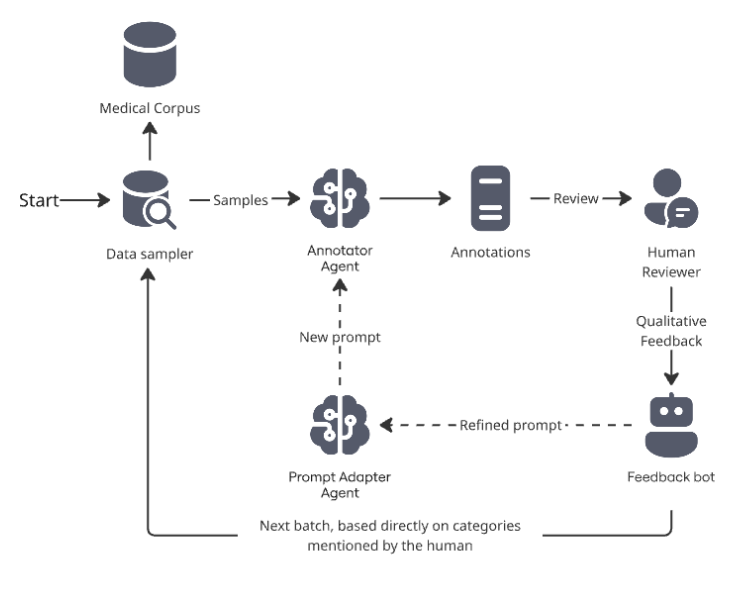
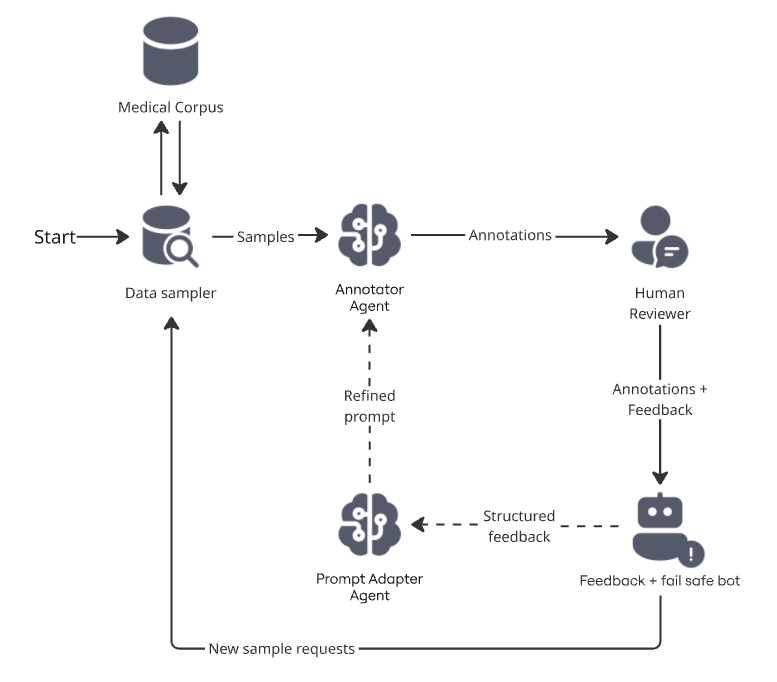
refine prompt agent to give output

diff --git a/src/modules/prompt_agent.py b/src/modules/prompt_agent.py
@@ -2,84 +2,248 @@ import json
 import os
 from datetime import datetime
 from typing import Dict, List
+import toml
+from google import genai
+from google.genai import types
 
-PROMPT_PATCHES = {
-    "unsupported_inference": [
-        "Do NOT infer diagnoses from prognosis discussions, family meetings, or treatment decisions.",
-        "Only extract diagnoses that are explicitly stated by a clinician."
-    ],
-    "symptom_diagnosis_confusion": [
-        "Do NOT label symptoms, complaints, or clinical findings as diagnoses unless explicitly diagnosed."
-    ],
-    "hallucination": [
-        "If a diagnosis is not explicitly mentioned in the text, do not guess or infer it."
-    ],
-    "missed_entity": [
-        "Ensure all explicitly stated diagnoses are extracted, even if mentioned briefly or once."
-    ]
-}
 
 class PromptAgent:
-    def __init__(self, prompt_dir: str = "logs/prompts"):
+    """
+    PromptAgent proposes *instruction-level patches* to an existing prompt.
+    It NEVER rewrites:
+      - system_prompt
+      - query
+      - allowed_diagnoses
+      - format_instruction
+    """
+
+    def __init__(
+        self,
+        prompt_dir: str = "logs/prompts",
+        secrets_path: str = "./secrets.toml",
+        model_name: str = "gemini-2.5-flash",
+        debug: bool = False,
+    ):
         self.prompt_dir = prompt_dir
+        self.model_name = model_name
+        self.secrets_path = secrets_path
+        self.debug = debug
+
         os.makedirs(self.prompt_dir, exist_ok=True)
+        self._load_client()
+
+    def _log(self, *args):
+        if self.debug:
+            print(*args)
+
+    def _load_client(self):
+        secrets = toml.load(self.secrets_path)
+        self.client = genai.Client(api_key=secrets["api"]["key"])
+
+    # ============================================================
+    # FEEDBACK AGGREGATION
+    # ============================================================
+
+    def _aggregate_feedback(self, parsed_feedback: List[Dict]) -> Dict[str, Dict]:
+        """
+        Aggregates repeated failure modes and example rationales.
+        """
+        agg: Dict[str, Dict] = {}
+
+        for fb in parsed_feedback:
+            if fb.get("outcome") != "incorrect":
+                continue
+
+            mode = fb.get("failure_mode")
+            if not mode:
+                continue
+
+            if mode not in agg:
+                agg[mode] = {
+                    "count": 0,
+                    "error_locus": fb.get("error_locus"),
+                    "examples": [],
+                }
+
+            agg[mode]["count"] += 1
+
+            rationale = fb.get("human_rationale")
+            if rationale:
+                agg[mode]["examples"].append(rationale)
+
+        return agg
+
+    # ============================================================
+    # LLM PROMPT CONSTRUCTION
+    # ============================================================
+
+    def _build_llm_prompt(
+        self,
+        base_prompt: Dict,
+        aggregated_failures: Dict[str, Dict],
+    ) -> str:
+        failures_text = []
+
+        for mode, info in aggregated_failures.items():
+            failures_text.append(
+                f"""
+Failure mode: {mode}
+Count: {info['count']}
+Error locus: {info.get('error_locus')}
+Reviewer examples:
+{chr(10).join('- ' + ex for ex in info['examples'][:3])}
+"""
+            )
+
+        return f"""
+You are assisting with IMPROVING an existing medical information extraction prompt.
+
+IMPORTANT CONSTRAINTS (DO NOT VIOLATE):
+- You MUST NOT rewrite or rephrase the task.
+- You MUST NOT change the system prompt.
+- You MUST NOT change the query.
+- You MUST NOT change the allowed_diagnoses list.
+- You MUST NOT change the output JSON format.
+- You MUST NOT introduce new task scope.
+
+You are ONLY allowed to:
+- Propose ADDITIONAL instructions
+- Propose SMALL refinements to EXISTING instructions
+
+The goal is to reduce the observed failure modes WITHOUT harming recall
+of explicitly stated diagnoses.
+
+------------------------------------
+CURRENT SYSTEM PROMPT (READ ONLY):
+{base_prompt.get("system_prompt", "")}
+
+CURRENT QUERY (READ ONLY):
+{base_prompt.get("query", "")}
+
+CURRENT INSTRUCTIONS (BASELINE – TREAT AS VALIDATED):
+{chr(10).join('- ' + i for i in base_prompt.get("instructions", []))}
+------------------------------------
+
+OBSERVED FAILURE MODES FROM HUMAN REVIEW:
+{chr(10).join(failures_text)}
+
+TASK:
+Propose instruction-level patches only.
+
+Return JSON in EXACTLY this format:
+
+{{
+  "instructions_to_add": [
+    "New instruction text"
+  ],
+  "instructions_to_refine": [
+    {{
+      "target_instruction": "Exact text of an existing instruction",
+      "refined_version": "Slightly refined version"
+    }}
+  ],
+  "rationale": "Why these changes reduce the failures without expanding scope"
+}}
+
+If no changes are needed, return empty lists.
+"""
+
+    # ============================================================
+    # LLM CALL
+    # ============================================================
+
+    def _call_llm(self, prompt: str) -> Dict:
+        config = types.GenerateContentConfig(
+            temperature=0.2,
+            max_output_tokens=5000,  # slightly higher
+        )
+
+        response = self.client.models.generate_content(
+            model=self.model_name,
+            contents=prompt,
+            config=config,
+        )
+
+        text = response.text.strip()
+
+        # Remove markdown fences if present
+        if text.startswith("```"):
+            text = text.split("```", 2)[1]
+
+        # Try parsing progressively
+        try:
+            return json.loads(text)
+        except json.JSONDecodeError:
+            pass
+
+        # Fallback: extract largest JSON block
+        import re
+        match = re.search(r"\{[\s\S]*\}", text)
+        if match:
+            try:
+                return json.loads(match.group(0))
+            except json.JSONDecodeError:
+                pass
+
+        return {
+            "error": "Failed to parse LLM JSON",
+            "raw_output": response.text,
+        }
+
+    # ============================================================
+    # PUBLIC API
+    # ============================================================
 
     def propose_update(
         self,
         base_prompt: Dict,
         parsed_feedback: List[Dict],
+        min_failures: int = 2,
     ) -> Dict:
         """
-        Proposes a prompt PATCH based on aggregated human feedback.
-        Does NOT activate automatically — requires human approval.
+        Generates an instruction-level prompt patch.
+        Requires human approval before application.
         """
 
-        # ---- Aggregate failure modes ----
-        failure_counts: Dict[str, int] = {}
+        aggregated = self._aggregate_feedback(parsed_feedback)
 
-        for fb in parsed_feedback:
-            if (
-                fb.get("outcome") == "incorrect"
-                and fb.get("error_locus") == "reasoning"
-            ):
-                mode = fb.get("failure_mode")
-                if mode:
-                    failure_counts[mode] = failure_counts.get(mode, 0) + 1
-
-        # ---- Generate patches ----
-        patches = []
-
-        for mode, count in failure_counts.items():
-            if mode in PROMPT_PATCHES and count > 0:
-                patches.append({
-                    "failure_mode": mode,
-                    "count": count,
-                    "instructions_added": PROMPT_PATCHES[mode],
-                })
-
-        if not patches:
+        total_failures = sum(v["count"] for v in aggregated.values())
+        if total_failures < min_failures:
             return {
-                "status": "no_update_needed",
-                "base_prompt": base_prompt.get("version"),
+                "status": "insufficient_signal",
+                "reason": "Not enough repeated failures to justify prompt update",
+                "observed_failures": aggregated,
             }
 
-        # ---- Build proposed prompt update ----
-        proposed_prompt = {
-            "base_prompt": base_prompt.get("version"),
-            "patches": patches,
+        llm_prompt = self._build_llm_prompt(base_prompt, aggregated)
+        llm_result = self._call_llm(llm_prompt)
+
+        if "error" in llm_result:
+            print("LLM failure")
+            # return {
+            #     "status": "llm_failure",
+            #     "error": llm_result,
+            # }
+
+        proposal = {
+            "base_prompt_version": base_prompt.get("version"),
             "generated_at": datetime.utcnow().isoformat(),
+            "aggregated_failures": {
+                k: {"count": v["count"]} for k, v in aggregated.items()
+            },
+            "instruction_patch": llm_result,
             "status": "pending_human_review",
         }
 
-        version = datetime.now().strftime("v%Y%m%d_%H%M%S_patch")
+        version = datetime.now().strftime("v%Y%m%d_%H%M%S_instruction_patch")
         path = os.path.join(self.prompt_dir, f"{version}.json")
 
         with open(path, "w", encoding="utf-8") as f:
-            json.dump(proposed_prompt, f, indent=2)
+            json.dump(proposal, f, indent=2)
 
         return {
+            "status": "pending_human_review",
             "version": version,
             "path": path,
-            "num_patches": len(patches),
-            "status": "pending_human_review",
+            "num_failure_modes": len(aggregated),
         }

diff --git a/src/modules/feedback_parser.py b/src/modules/feedback_parser.py
@@ -2,31 +2,37 @@ from typing import Dict, Optional
 
 
 class FeedbackParser:
-    def __init__(self):
-        pass
-
     def parse(self, human_feedback: Dict) -> Dict:
-        """
-        Expected input example:
-        {
-            "correct": false,
-            "comment": "Model inferred pneumonia from prognosis discussion",
-            "confidence": 80
-        }
-        """
-
         comment = (human_feedback.get("comment") or "").lower()
         correct = human_feedback.get("correct", None)
         confidence = human_feedback.get("confidence", None)
 
         failure_mode: Optional[str] = None
+        error_locus: Optional[str] = None
 
+        if correct is False:
+            if any(k in comment for k in ["infer", "assume", "hallucinat", "guess"]):
+                failure_mode = "unsupported_inference"
+                error_locus = "reasoning"
+
+            elif any(k in comment for k in ["symptom", "complaint", "finding"]):
+                failure_mode = "symptom_diagnosis_confusion"
+                error_locus = "reasoning"
+
+            elif any(k in comment for k in ["miss", "missed", "not extracted"]):
+                failure_mode = "missed_entity"
+                error_locus = "extraction"
+
+            else:
+                failure_mode = "unclassified_error"
+                error_locus = "unknown"
 
         return {
             "outcome": "correct" if correct else "incorrect",
             "failure_mode": failure_mode,
-            "human_rationale": human_feedback.get("comment", ""),
+            "error_locus": error_locus,
             "error_type": "TEST",
-            "confidence_flag": confidence,
-            "low_confidence_flag": confidence is not None and confidence < 50
+            "human_rationale": human_feedback.get("comment", ""),
+            "confidence": confidence,
+            "low_confidence_flag": confidence is not None and confidence < 50,
         }

diff --git a/src/main.py b/src/main.py
@@ -35,6 +35,8 @@ def run_pipeline(sample_size=5, debug=False, prompt_path="prompts/medical_text_p
     version = datetime.now().strftime("v%Y%m%d_%H%M%S")
     run_id = f"run_{version}"
     
+    print("--- Initializing modules ---")
+
     # Initialize all pipeline components
     sampler = DataSampler(
         notes_path="data/mimiciii_notes.parquet",
@@ -113,6 +115,8 @@ def run_pipeline(sample_size=5, debug=False, prompt_path="prompts/medical_text_p
     metrics = evaluator.evaluate(parsed_signals)
     logger.log("METRICS_COMPUTED", metrics)
     
+    print("\n --- Loading LLM to refine prompt... ---")
+
     # ============================================================
     # 5. PROMPT IMPROVEMENT PROPOSAL
     # ============================================================
@@ -149,7 +153,7 @@ def run_pipeline(sample_size=5, debug=False, prompt_path="prompts/medical_text_p
 if __name__ == "__main__":
     # Example execution with single sample for testing
     df, metrics, proposal = run_pipeline(
-        sample_size=1,
+        sample_size=3,
         debug=True,
         prompt_path="logs/prompts/v1_initial.json",
     )
